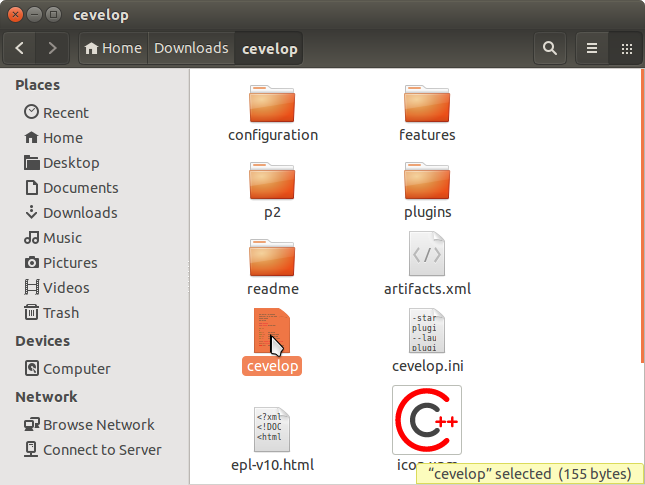
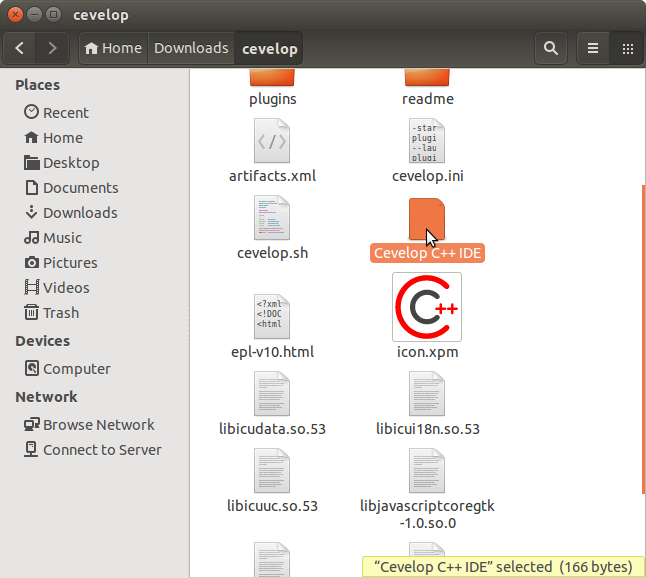
Update release information.

diff --git a/download/index.html b/download/index.html
@@ -3,10 +3,11 @@ title: Download Cevelop
 layout: default
 active: download
 
-download-win32: http://cevelop.com/cevelop/downloads/com.cevelop.platform-win32.win32.x86.zip
-download-win64: http://cevelop.com/cevelop/downloads/com.cevelop.platform-win32.win32.x86_64.zip
-download-osx64: http://cevelop.com/cevelop/downloads/com.cevelop.platform-macosx.cocoa.x86_64.tar.gz
-download-lnx64: http://cevelop.com/cevelop/downloads/com.cevelop.platform-linux.gtk.x86_64.tar.gz
+release-version: 1.0.0
+download-win32: http://cevelop.com/cevelop/downloads/cevelop-1.0.0-201407221136-win32.win32.x86.zip
+download-win64: http://cevelop.com/cevelop/downloads/cevelop-1.0.0-201407221136-win32.win32.x86_64.zip
+download-osx64: http://cevelop.com/cevelop/downloads/cevelop-1.0.0-201407221136-macosx.cocoa.x86_64.tar.gz
+download-lnx64: http://cevelop.com/cevelop/downloads/cevelop-1.0.0-201407221136-linux.gtk.x86_64.tar.gz
 ---
 
 <div class="jumbotron">
@@ -25,16 +26,16 @@ download-lnx64: http://cevelop.com/cevelop/downloads/com.cevelop.platform-linux.
     <div class="row">
       <div class="col-md-4">
 	<h2><i class="fa fa-windows"></i> Windows</h2>
-	<p><a class="btn btn-success download-windows" href="{{ page.download-win64 }}" role="button"><span class="glyphicon glyphicon-floppy-save"></span> Release 0.1 (64-Bit)</a></p>
-	<p><a class="btn btn-success download-windows" href="{{ page.download-win32 }}" role="button"><span class="glyphicon glyphicon-floppy-save"></span> Release 0.1 (32-Bit)</a></p>
+	<p><a class="btn btn-success download-windows" href="{{ page.download-win64 }}" role="button"><span class="glyphicon glyphicon-floppy-save"></span> Release {{ page.release-version }} (64-Bit)</a></p>
+	<p><a class="btn btn-success download-windows" href="{{ page.download-win32 }}" role="button"><span class="glyphicon glyphicon-floppy-save"></span> Release {{ page.release-version }} (32-Bit)</a></p>
       </div>
       <div class="col-md-4">
 	<h2><i class="fa fa-apple"></i> OS X</h2>
-	<p><a class="btn btn-success download-osx" href="{{ page.download-osx64 }}" role="button"><span class="glyphicon glyphicon-floppy-save"></span> Release 0.1 (64-Bit)</a></p>
+	<p><a class="btn btn-success download-osx" href="{{ page.download-osx64 }}" role="button"><span class="glyphicon glyphicon-floppy-save"></span> Release {{ page.release-version }} (64-Bit)</a></p>
       </div>
       <div class="col-md-4">
 	<h2><i class="fa fa-linux"></i> Linux</h2>
-	<p><a class="btn btn-success download-linux" href="{{ page.download-lnx64 }}" role="button"><span class="glyphicon glyphicon-floppy-save"></span> Release 0.1 (64-Bit)</a></p>
+	<p><a class="btn btn-success download-linux" href="{{ page.download-lnx64 }}" role="button"><span class="glyphicon glyphicon-floppy-save"></span> Release {{ page.release-version }} (64-Bit)</a></p>
       </div>
     </div>
   </div>
@@ -64,8 +65,9 @@ download-lnx64: http://cevelop.com/cevelop/downloads/com.cevelop.platform-linux.
       <h2>Thank you for downloading Cevelop</h2>
       <p>To get started, simply unpack the downloaded archive:</p>
       <img src="/img/installation-linux-1.png" />
-      <p>And run the <code>cevelop</code> script from the extracted folder:</p>
+      <p>And double click on the <code>Cevelop C++ IDE</code> file in the extracted folder:</p>
       <img src="/img/installation-linux-2.png" />
+      <p>Alternatively, if you want to run Cevelop from a terminal, use the <code>cevelop.sh</code> script.</p>
     </div>
   </div>
 </div>
